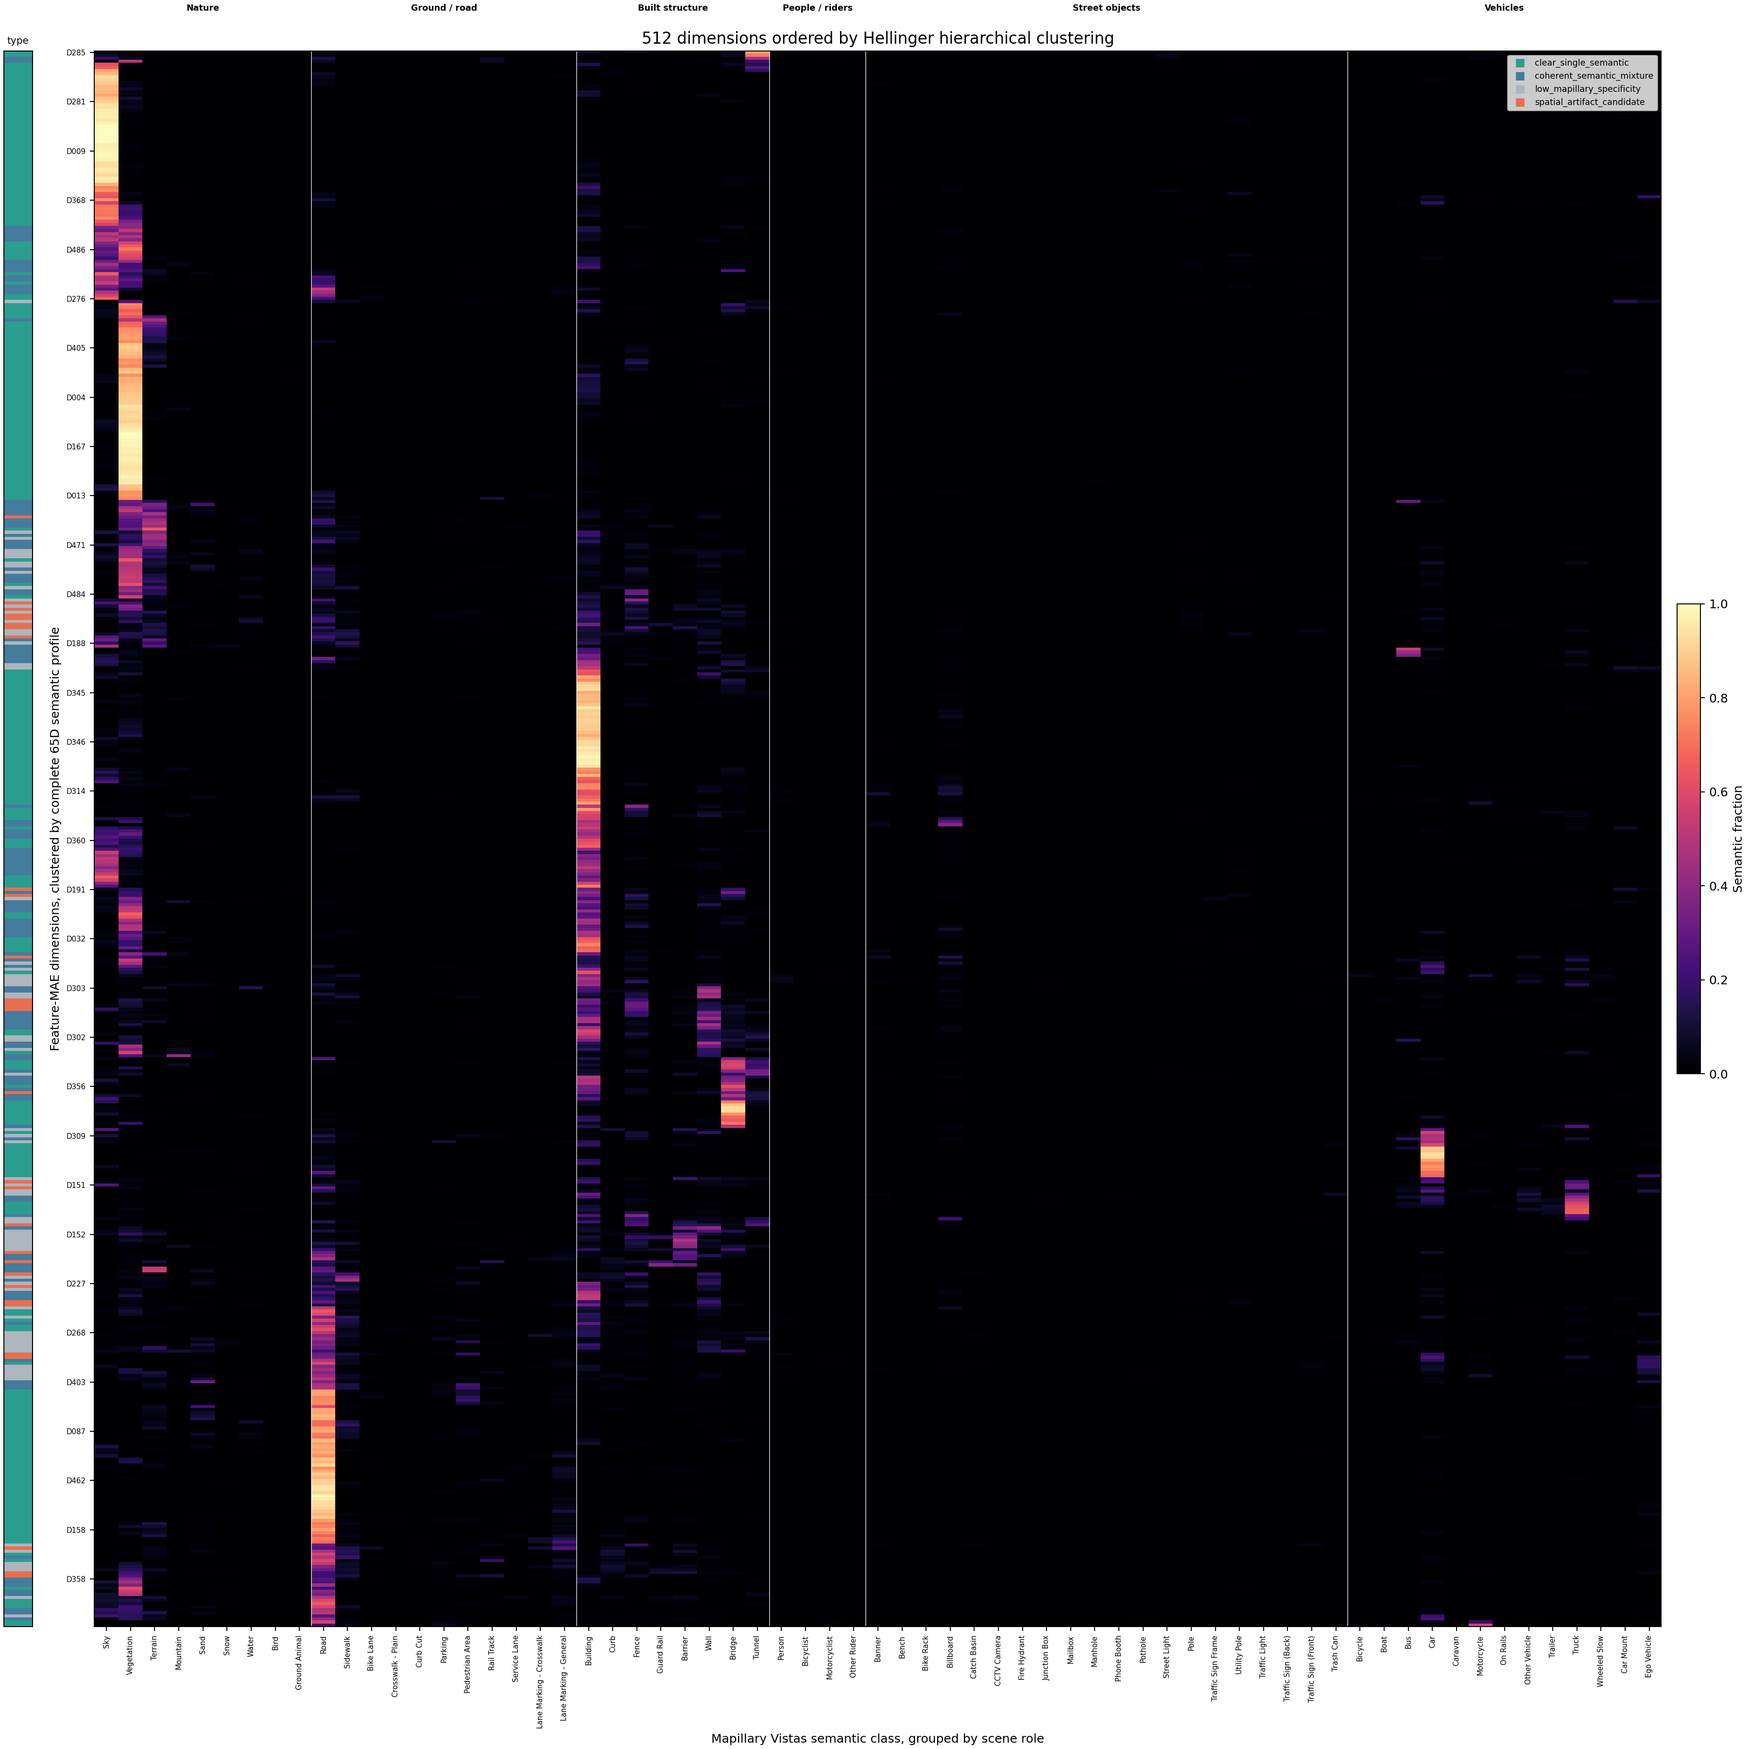
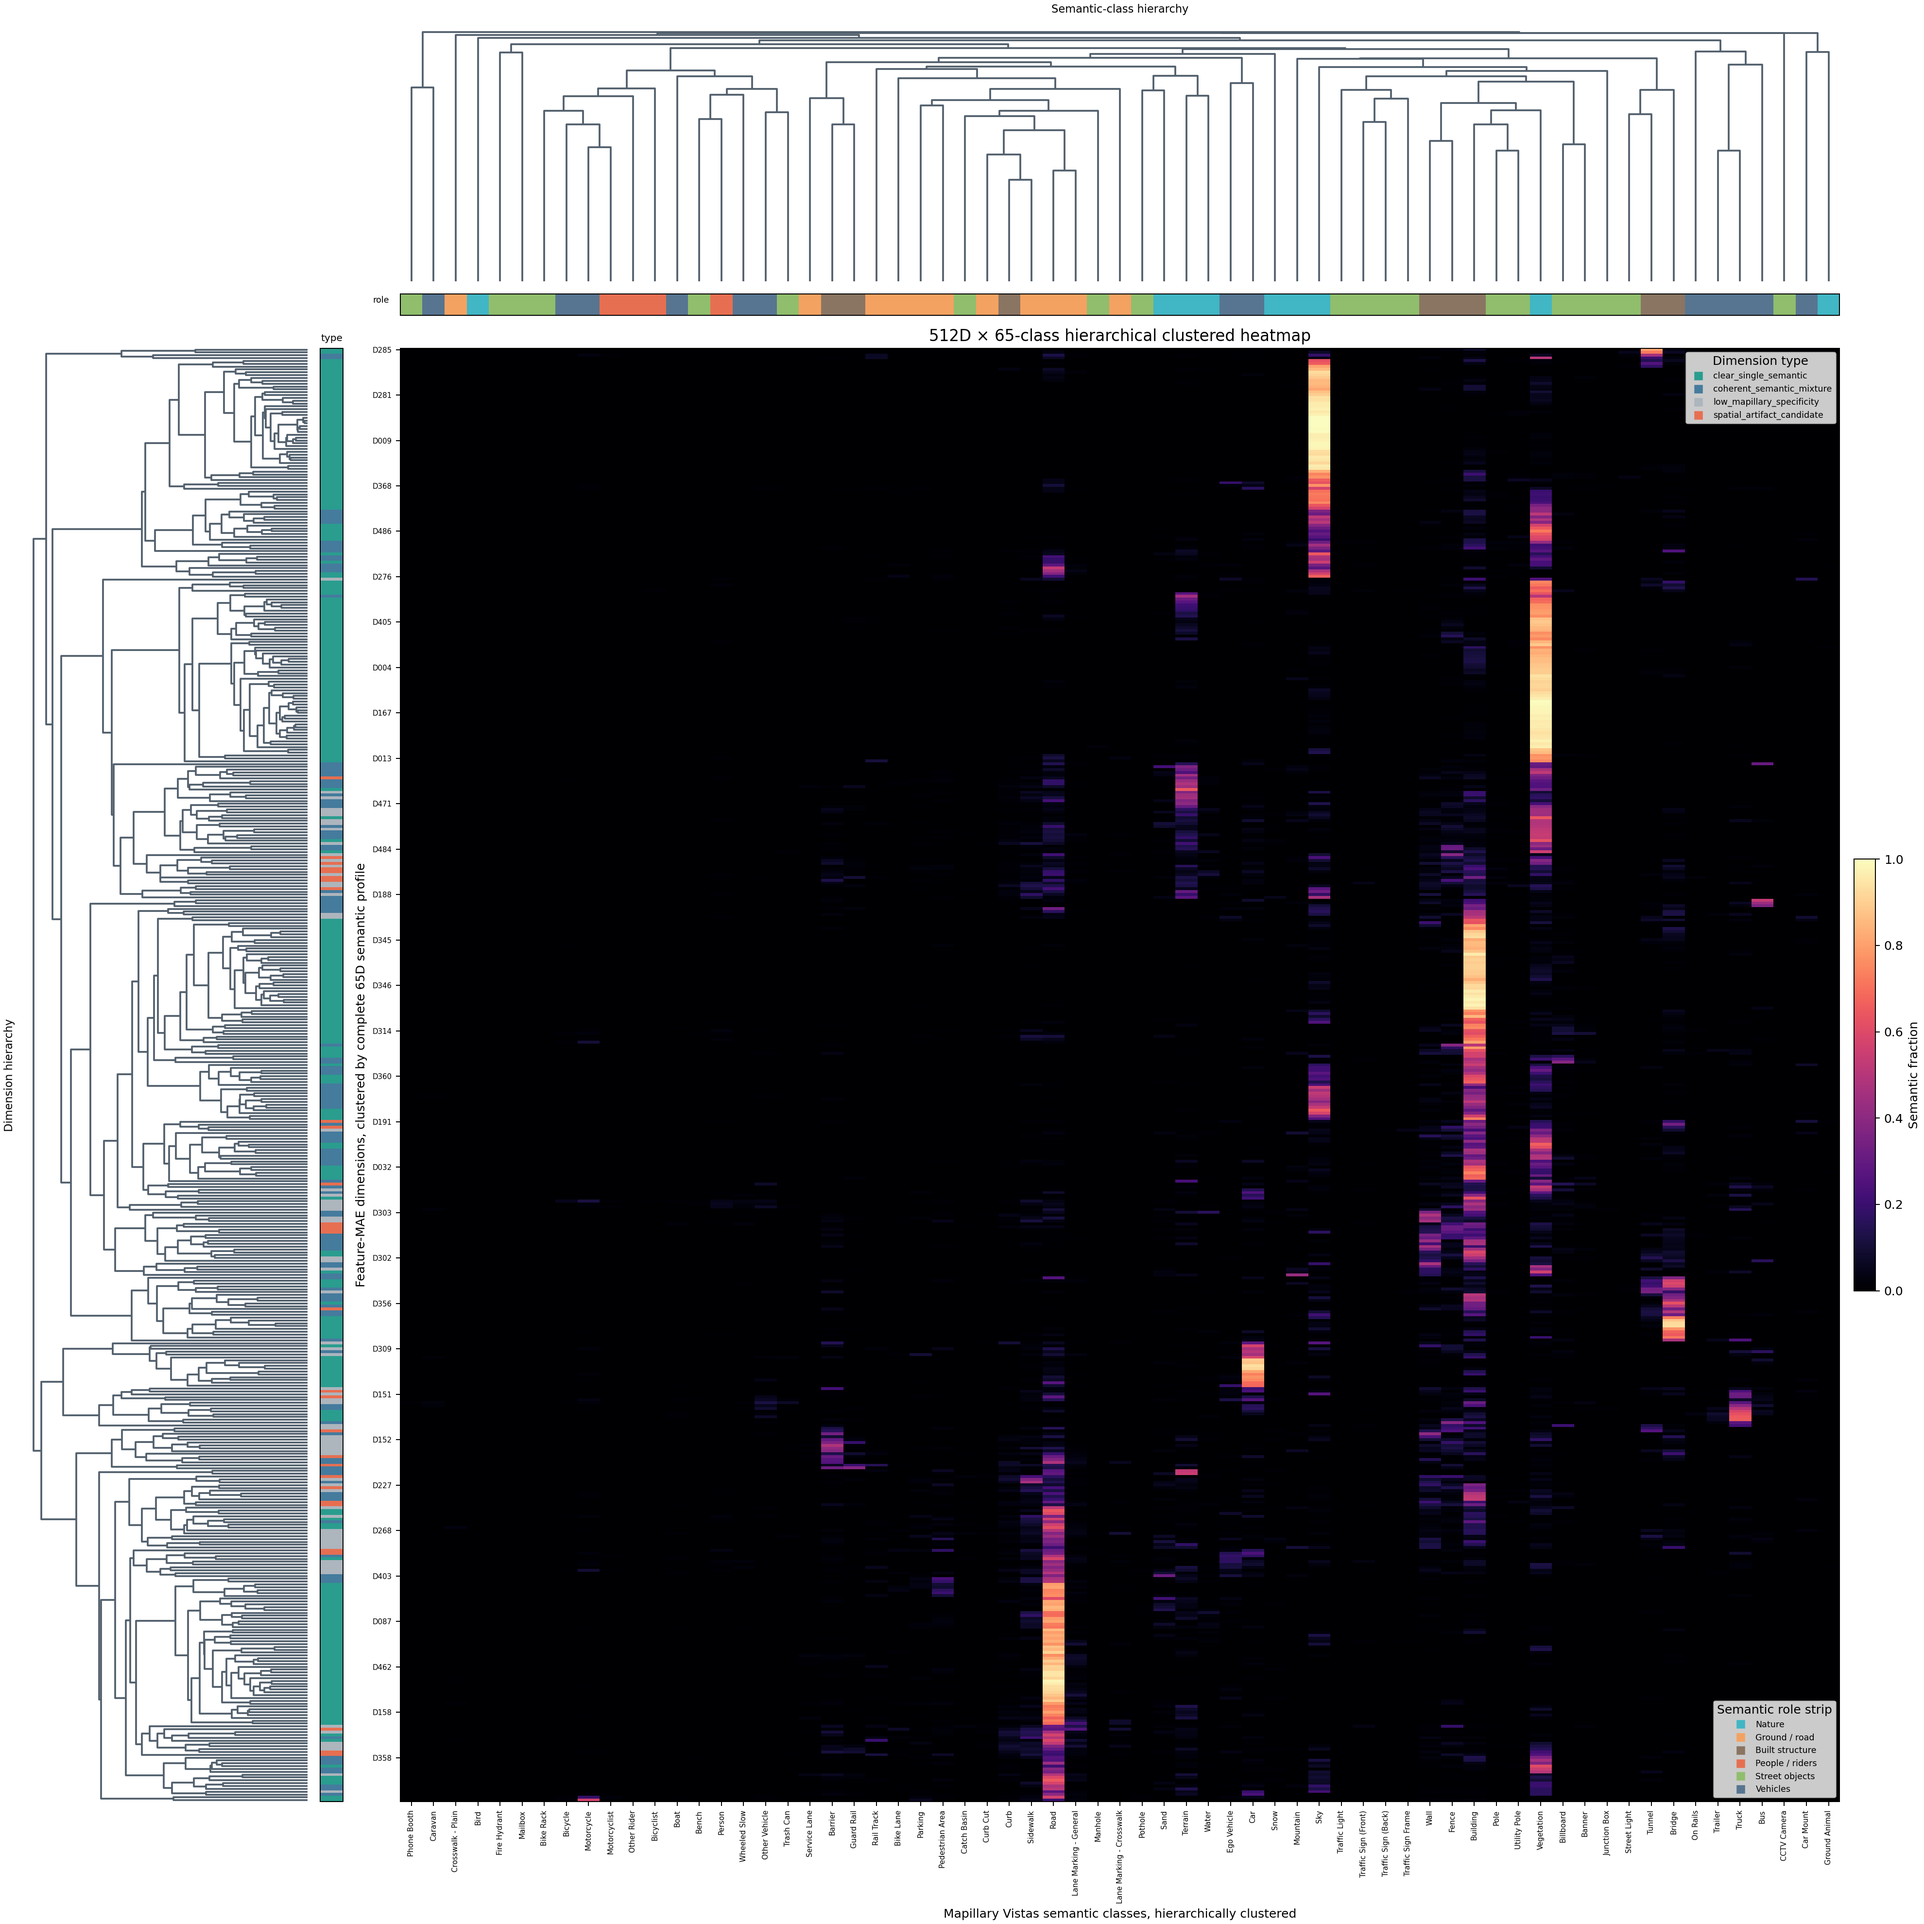
Render semantic profiles as hierarchical clustermap

diff --git a/scripts/multicity/analyze_feature_mae_semantic_alignment.py b/scripts/multicity/analyze_feature_mae_semantic_alignment.py
@@ -28,7 +28,7 @@ import matplotlib.pyplot as plt
 import numpy as np
 import pandas as pd
 from PIL import Image
-from scipy.cluster.hierarchy import fcluster, leaves_list, linkage, optimal_leaf_ordering
+from scipy.cluster.hierarchy import dendrogram, fcluster, linkage, optimal_leaf_ordering
 from scipy.spatial.distance import pdist
 from sklearn.cluster import MiniBatchKMeans
 from sklearn.decomposition import PCA
@@ -612,7 +612,7 @@ def plot_summary(metrics: pd.DataFrame, output: Path) -> None:
 
 def plot_all_dimension_heatmap(
     metrics: pd.DataFrame, distribution: pd.DataFrame, output: Path
-) -> pd.DataFrame:
+) -> tuple[pd.DataFrame, pd.DataFrame]:
     profiles = distribution.pivot(
         index="dimension_id", columns="class_id", values="semantic_fraction"
     ).to_numpy()
@@ -624,7 +624,6 @@ def plot_all_dimension_heatmap(
     row_distance = pdist(np.sqrt(np.clip(profiles, 0, 1)), metric="euclidean") / math.sqrt(2)
     row_linkage = linkage(row_distance, method="average")
     row_linkage = optimal_leaf_ordering(row_linkage, row_distance)
-    ordered = leaves_list(row_linkage).astype(np.int64)
     cluster_labels = fcluster(row_linkage, t=16, criterion="maxclust").astype(np.int64)
 
     # Put related Mapillary concepts next to one another instead of relying on
@@ -637,13 +636,30 @@ def plot_all_dimension_heatmap(
         ("Street objects", list(range(32, 52))),
         ("Vehicles", list(range(52, 65))),
     ]
-    column_order = np.asarray(
-        [class_id for _, class_ids in semantic_groups for class_id in class_ids],
-        dtype=np.int64,
+    grouped_class_ids = np.asarray(
+        [class_id for _, class_ids in semantic_groups for class_id in class_ids], dtype=np.int64
     )
-    if sorted(column_order.tolist()) != list(range(CLASSES)):
+    if sorted(grouped_class_ids.tolist()) != list(range(CLASSES)):
         raise ValueError("semantic display groups must cover class IDs 0..64 exactly once")
-    assessments = metrics.set_index("dimension_id").loc[ordered, "assessment"].to_numpy()
+    class_to_group = {
+        class_id: group_index
+        for group_index, (_, class_ids) in enumerate(semantic_groups)
+        for class_id in class_ids
+    }
+
+    # Cluster semantic classes by the dimensions in which they co-occur. Each
+    # class column is normalized over dimensions before applying Hellinger
+    # distance, so rare classes can still form meaningful branches.
+    column_profiles = profiles.T
+    column_profiles = column_profiles / np.maximum(
+        column_profiles.sum(axis=1, keepdims=True), 1e-12
+    )
+    column_distance = pdist(
+        np.sqrt(np.clip(column_profiles, 0, 1)), metric="euclidean"
+    ) / math.sqrt(2)
+    column_linkage = linkage(column_distance, method="average")
+    column_linkage = optimal_leaf_ordering(column_linkage, column_distance)
+    column_clusters = fcluster(column_linkage, t=10, criterion="maxclust").astype(np.int64)
     assessment_names = [
         "clear_single_semantic",
         "coherent_semantic_mixture",
@@ -654,19 +670,74 @@ def plot_all_dimension_heatmap(
         [[42, 157, 143], [69, 123, 157], [173, 181, 189], [231, 111, 81]],
         dtype=np.uint8,
     )
+    semantic_group_colours = np.asarray(
+        [[65, 182, 196], [244, 162, 97], [138, 117, 99], [231, 111, 81], [144, 190, 109], [87, 117, 144]],
+        dtype=np.uint8,
+    )
+
+    figure = plt.figure(figsize=(22, 22), constrained_layout=True)
+    grid = figure.add_gridspec(
+        3, 3,
+        width_ratios=[2.8, 0.22, 14],
+        height_ratios=[2.7, 0.22, 15],
+        wspace=0.02,
+        hspace=0.02,
+    )
+    column_axis = figure.add_subplot(grid[0, 2])
+    column_tree = dendrogram(
+        column_linkage,
+        ax=column_axis,
+        orientation="top",
+        no_labels=True,
+        color_threshold=0,
+        above_threshold_color="#52606d",
+        link_color_func=lambda _: "#52606d",
+    )
+    column_order = np.asarray(column_tree["leaves"], dtype=np.int64)
+    column_axis.set_xticks([])
+    column_axis.set_yticks([])
+    column_axis.spines[:].set_visible(False)
+    column_axis.set_title("Semantic-class hierarchy", fontsize=9)
+
+    row_axis = figure.add_subplot(grid[2, 0])
+    row_tree = dendrogram(
+        row_linkage,
+        ax=row_axis,
+        orientation="left",
+        no_labels=True,
+        color_threshold=0,
+        above_threshold_color="#52606d",
+        link_color_func=lambda _: "#52606d",
+    )
+    ordered = np.asarray(row_tree["leaves"], dtype=np.int64)
+    row_axis.invert_yaxis()
+    row_axis.set_xticks([])
+    row_axis.set_yticks([])
+    row_axis.spines[:].set_visible(False)
+    row_axis.set_ylabel("Dimension hierarchy", fontsize=9)
+
+    assessments = metrics.set_index("dimension_id").loc[ordered, "assessment"].to_numpy()
     assessment_ids = np.asarray(
         [assessment_names.index(value) for value in assessments], dtype=np.int64
     )
     strip = assessment_colours[assessment_ids][:, None, :]
-
-    figure = plt.figure(figsize=(20, 20), constrained_layout=True)
-    grid = figure.add_gridspec(1, 2, width_ratios=[0.22, 12], wspace=0.02)
-    strip_axis = figure.add_subplot(grid[0, 0])
+    strip_axis = figure.add_subplot(grid[2, 1])
     strip_axis.imshow(strip, aspect="auto")
     strip_axis.set_xticks([])
     strip_axis.set_yticks([])
     strip_axis.set_title("type", fontsize=8)
-    axis = figure.add_subplot(grid[0, 1])
+    semantic_strip_axis = figure.add_subplot(grid[1, 2])
+    semantic_group_ids = np.asarray(
+        [class_to_group[int(class_id)] for class_id in column_order], dtype=np.int64
+    )
+    semantic_strip_axis.imshow(
+        semantic_group_colours[semantic_group_ids][None, :, :], aspect="auto"
+    )
+    semantic_strip_axis.set_xticks([])
+    semantic_strip_axis.set_yticks([])
+    semantic_strip_axis.set_ylabel("role", fontsize=7, rotation=0, labelpad=16)
+
+    axis = figure.add_subplot(grid[2, 2])
     image = axis.imshow(
         profiles[np.ix_(ordered, column_order)], aspect="auto", interpolation="nearest",
         cmap="magma", vmin=0, vmax=1,
@@ -676,39 +747,37 @@ def plot_all_dimension_heatmap(
     )
     tick_positions = np.arange(0, DIMENSIONS, 16)
     axis.set_yticks(tick_positions, [f"D{ordered[x]:03d}" for x in tick_positions], fontsize=6)
-    axis.set_xlabel("Mapillary Vistas semantic class, grouped by scene role")
+    axis.set_xlabel("Mapillary Vistas semantic classes, hierarchically clustered")
     axis.set_ylabel("Feature-MAE dimensions, clustered by complete 65D semantic profile")
     axis.set_title(
-        "512 dimensions ordered by Hellinger hierarchical clustering",
+        "512D × 65-class hierarchical clustered heatmap",
         fontsize=13,
     )
-    start = 0
-    for group_name, class_ids in semantic_groups:
-        end = start + len(class_ids)
-        if start:
-            axis.axvline(start - 0.5, color="white", linewidth=0.7, alpha=0.75)
-        axis.text(
-            (start + end - 1) / 2,
-            -13,
-            group_name,
-            ha="center",
-            va="bottom",
-            fontsize=7,
-            fontweight="bold",
-            clip_on=False,
-        )
-        start = end
     colourbar = figure.colorbar(image, ax=axis, fraction=0.015, pad=0.01)
     colourbar.set_label("Semantic fraction")
     handles = [
         plt.Line2D([0], [0], marker="s", linestyle="", color=colour / 255.0, label=name)
         for colour, name in zip(assessment_colours, assessment_names)
     ]
-    axis.legend(handles=handles, loc="upper right", fontsize=7, frameon=True)
+    role_handles = [
+        plt.Line2D(
+            [0], [0], marker="s", linestyle="", color=semantic_group_colours[index] / 255.0,
+            label=name,
+        )
+        for index, (name, _) in enumerate(semantic_groups)
+    ]
+    first_legend = axis.legend(
+        handles=handles, loc="upper right", fontsize=7, frameon=True, title="Dimension type"
+    )
+    axis.add_artist(first_legend)
+    axis.legend(
+        handles=role_handles, loc="lower right", fontsize=7, frameon=True,
+        title="Semantic role strip",
+    )
     output.parent.mkdir(parents=True, exist_ok=True)
     figure.savefig(output, dpi=180)
     plt.close(figure)
-    return pd.DataFrame(
+    dimension_order = pd.DataFrame(
         {
             "heatmap_row": np.arange(DIMENSIONS),
             "dimension_id": ordered,
@@ -718,6 +787,16 @@ def plot_all_dimension_heatmap(
             "assessment": assessments,
         }
     )
+    semantic_order = pd.DataFrame(
+        {
+            "heatmap_column": np.arange(CLASSES),
+            "class_id": column_order,
+            "class_name": class_names[column_order],
+            "semantic_cluster_10": column_clusters[column_order],
+            "scene_role": [semantic_groups[class_to_group[int(x)]][0] for x in column_order],
+        }
+    )
+    return dimension_order, semantic_order
 
 
 def parse_args() -> argparse.Namespace:
@@ -793,12 +872,13 @@ def main() -> None:
     )
     details.to_csv(args.output_data / "selected_point_top_dimensions.csv", index=False)
     plot_summary(metrics, args.output_figures / "Fig_Dimension_Semantic_Clarity.png")
-    dimension_order = plot_all_dimension_heatmap(
+    dimension_order, semantic_order = plot_all_dimension_heatmap(
         metrics,
         distribution,
         args.output_figures / "Fig_512D_Semantic_Profile_Heatmap.png",
     )
     dimension_order.to_csv(args.output_data / "heatmap_dimension_order.csv", index=False)
+    semantic_order.to_csv(args.output_data / "heatmap_semantic_order.csv", index=False)
     counts = metrics.assessment.value_counts().to_dict()
     report = {
         "created_utc": datetime.now(timezone.utc).isoformat(),

diff --git a/paper/FEATURE_MAE_SEMANTIC_ALIGNMENT.md b/paper/FEATURE_MAE_SEMANTIC_ALIGNMENT.md
@@ -121,6 +121,7 @@ paper/data/semantic_alignment/feature_mae_mapillary_alignment_n60000/
   dimension_semantic_distribution_65.csv
   dimension_top_patch_exemplars.csv
   heatmap_dimension_order.csv
+  heatmap_semantic_order.csv
   selected_20_points.csv
   selected_point_top_dimensions.csv
 ```
@@ -137,15 +138,17 @@ paper/figures/supplementary/feature_mae_semantic_alignment_20/
   P20_semantic_feature_alignment.jpg
 ```
 
-The 512-row heatmap shows every dimension's complete 65-class semantic profile.
-Rows are ordered by average-linkage hierarchical clustering under Hellinger
-distance, so dimensions with similar full semantic compositions appear next to
-one another. Columns are arranged into nature, ground/road, built structure,
-people/riders, street objects, and vehicle groups. The coloured strip identifies
-clear, mixed, low-specificity, and artifact-candidate dimensions. The exact row
-order and 16-cluster assignment are recorded in `heatmap_dimension_order.csv`.
-The CSV tables should be used when exact dimension IDs and percentages are
-required.
+The 512-row heatmap shows every dimension's complete 65-class semantic profile
+as a two-way hierarchical clustered heatmap. The left dendrogram clusters
+dimensions using Hellinger distance between their 65D semantic compositions;
+the top dendrogram clusters semantic classes by the dimensions in which they
+co-occur. The coloured side strip identifies clear, mixed, low-specificity, and
+artifact-candidate dimensions. The top strip retains the human-readable nature,
+ground/road, built structure, people/riders, street-object, and vehicle roles
+after the semantic columns have been clustered. Exact leaf orders and cluster
+assignments are recorded in `heatmap_dimension_order.csv` and
+`heatmap_semantic_order.csv`. The CSV tables should be used when exact dimension
+IDs and percentages are required.
 
 ## Conclusion
 
